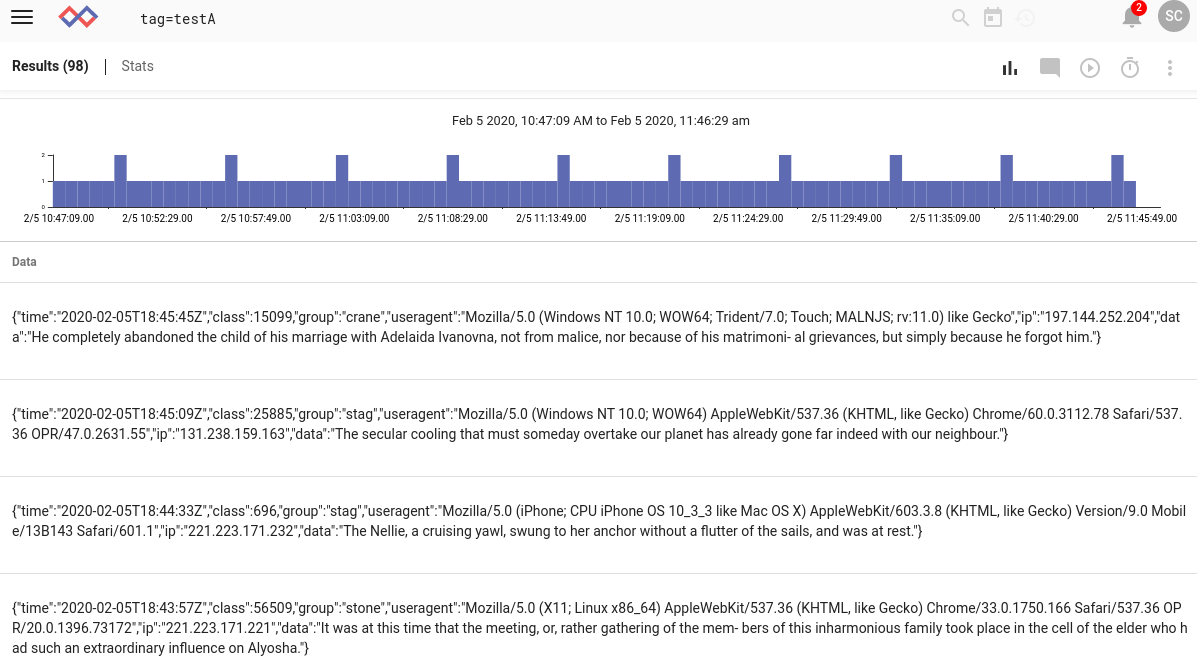
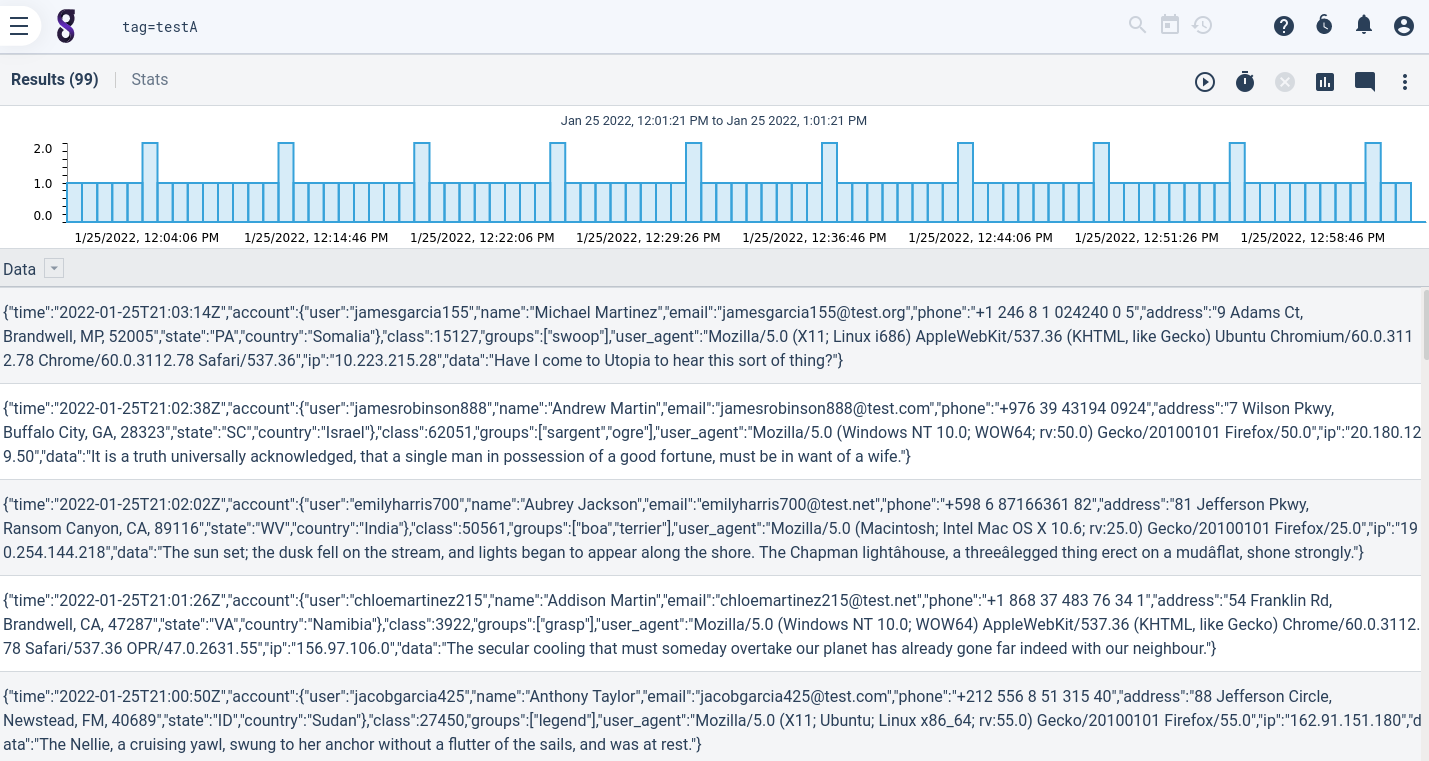
Update ingesters screenshots. Closes #30

diff --git a/Ingesters/ingesters.tex b/Ingesters/ingesters.tex
@@ -798,7 +798,7 @@ confirm this, as shown in Figure \ref{fig:file-follow-lab}.
 
 \begin{figure}
 	\includegraphics{images/igst-filefollow-lab.png}
-	\caption{Ingested Logs}
+	\caption{Auth logs ingested via File Follower}
 	\label{fig:file-follow-lab}
 \end{figure}
 
@@ -1198,7 +1198,7 @@ generating any traffic; this can be verified by searching for
 \code{tag=pcap} as shown in Figure \ref{fig:pcap-lab1}.
 
 \begin{figure}
-	\includegraphics{images/igst-pcap-lab1.png}
+	\includegraphics[width=0.8\linewidth]{images/igst-pcap-lab1.png}
 	\caption{Raw packets}
 	\label{fig:pcap-lab1}
 \end{figure}
@@ -1214,13 +1214,13 @@ dest IP, and IP protocol from each packet. Results are shown in Figure \ref{fig:
 
 
 \begin{figure}
-	\includegraphics{images/igst-pcap-lab2.png}
+	\includegraphics[width=0.8\linewidth]{images/igst-pcap-lab2.png}
 	\caption{Parsing Packets}
 	\label{fig:pcap-lab2}
 \end{figure}
 
 The screenshot shows that the majority of packets are currently
-protocol 17 (UDP) with the occasional protocol 2 packet (IGMP).
+protocol 17 (UDP).
 
 Next, we'll generate some ping traffic:
 
@@ -1244,7 +1244,7 @@ chart count by Protocol}
 The results are shown in Figure \ref{fig:pcap-lab3}, with the chart changed to a pie chart.
 
 \begin{figure}
-	\includegraphics{images/igst-pcap-lab3.png}
+	\includegraphics[width=0.8\linewidth]{images/igst-pcap-lab3.png}
 	\caption{Protocol Ratios}
 	\label{fig:pcap-lab3}
 \end{figure}
